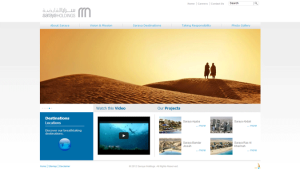
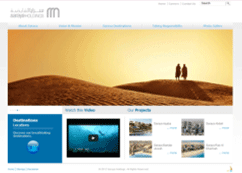
portfolio hover

diff --git a/Portfolio_files/Themes/CMSStyle1.css b/Portfolio_files/Themes/CMSStyle1.css
@@ -410,13 +410,13 @@ p {
     }
 
     .mix-container .mix {
-        text-align: left;
         margin-bottom: 2%;
         display: none;
         max-width: 244px;
         position: relative;
         height: 175px;
         overflow: hidden;
+        background:#f8f8f8;
         border: 1px solid #f2f2f2;
         -webkit-transform: translateZ(0);
         transform: translateZ(0);
@@ -610,7 +610,8 @@ button span.bg {
     }
 
 .category-3 .portfolio-hover:hover .portfolio-pop, .category-2 .portfolio-hover:hover .portfolio-pop {
-    right: 93px !important;
+    right: 50% !important;
+    margin-right:-27.5px;
 }
 
 .btn:hover, .contact-me .action button:hover {
@@ -811,7 +812,8 @@ button span.bg {
     }
 
     .category-3 .portfolio-hover:hover .portfolio-pop, .category-2 .portfolio-hover:hover .portfolio-pop {
-        right: 57px !important;
+        right: 50% !important;
+        margin-right:-22.5px;
     }
 }
 
@@ -935,7 +937,8 @@ button span.bg {
     }
 
     .category-3 .portfolio-hover:hover .portfolio-pop, .category-2 .portfolio-hover:hover .portfolio-pop {
-        right: 48px !important;
+        right: 50% !important;
+        margin-right:-22.5px;
     }
 
     .nivo-lightbox-theme-default .nivo-lightbox-title {
@@ -959,9 +962,7 @@ button span.bg {
         right: 45px;
     }
 
-    .category-3 .portfolio-hover:hover .portfolio-pop, .category-2 .portfolio-hover:hover .portfolio-pop {
-        right: 76px !important;
-    }
+   
 }
 
 #print {
